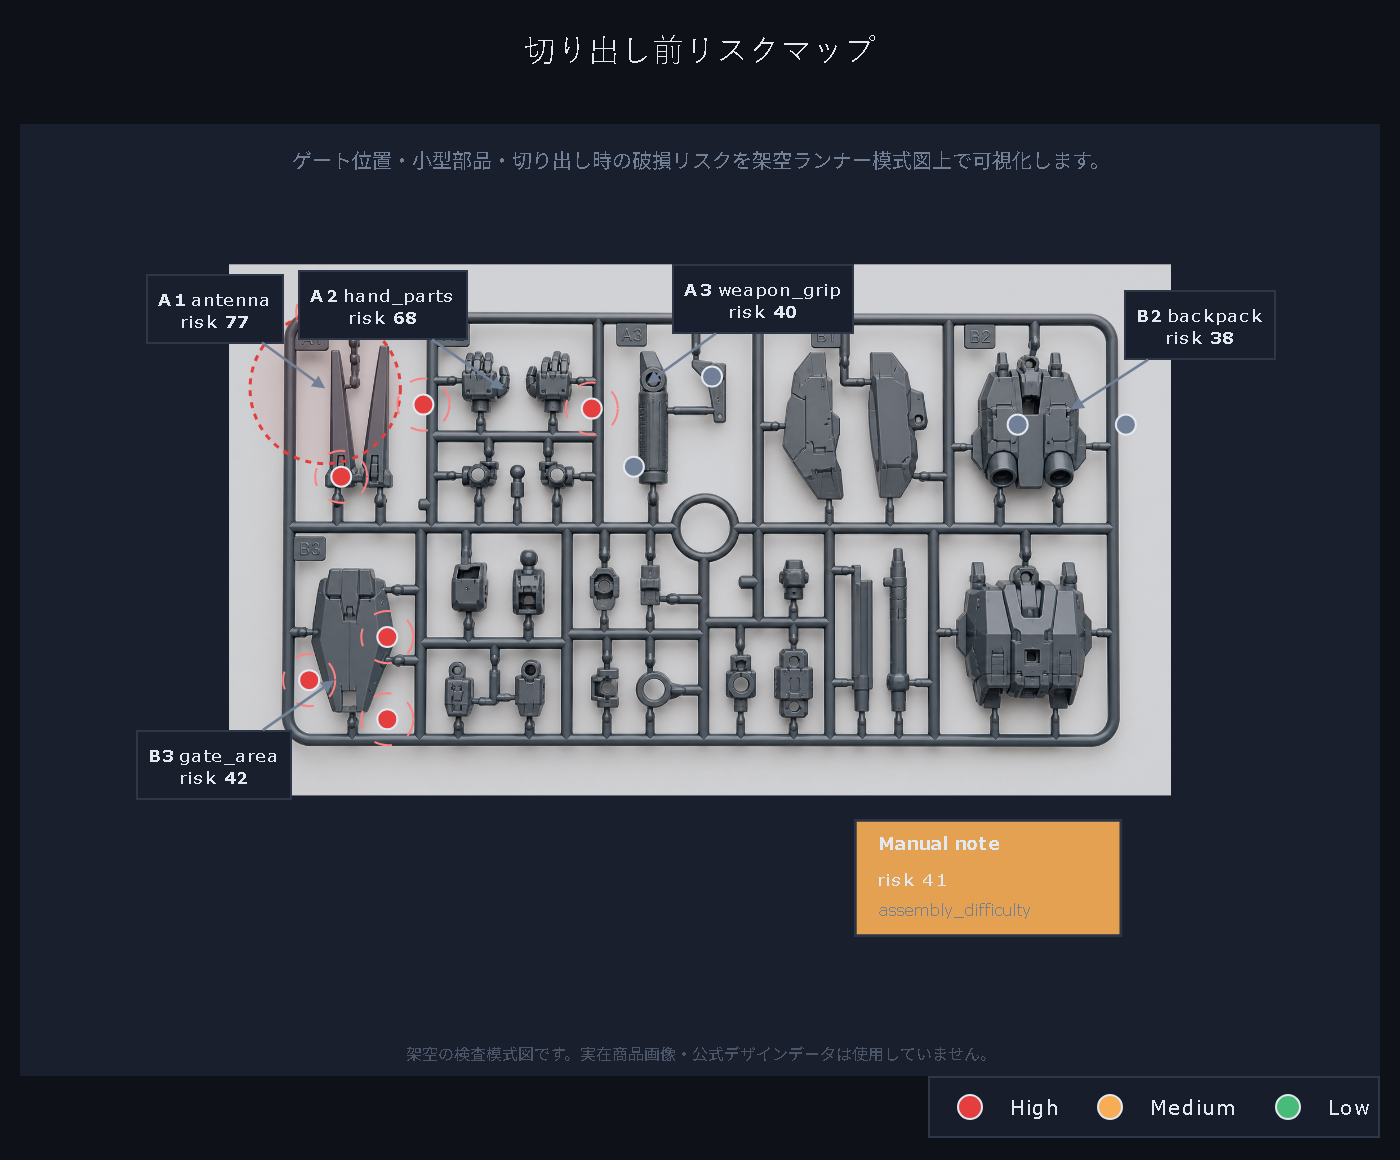
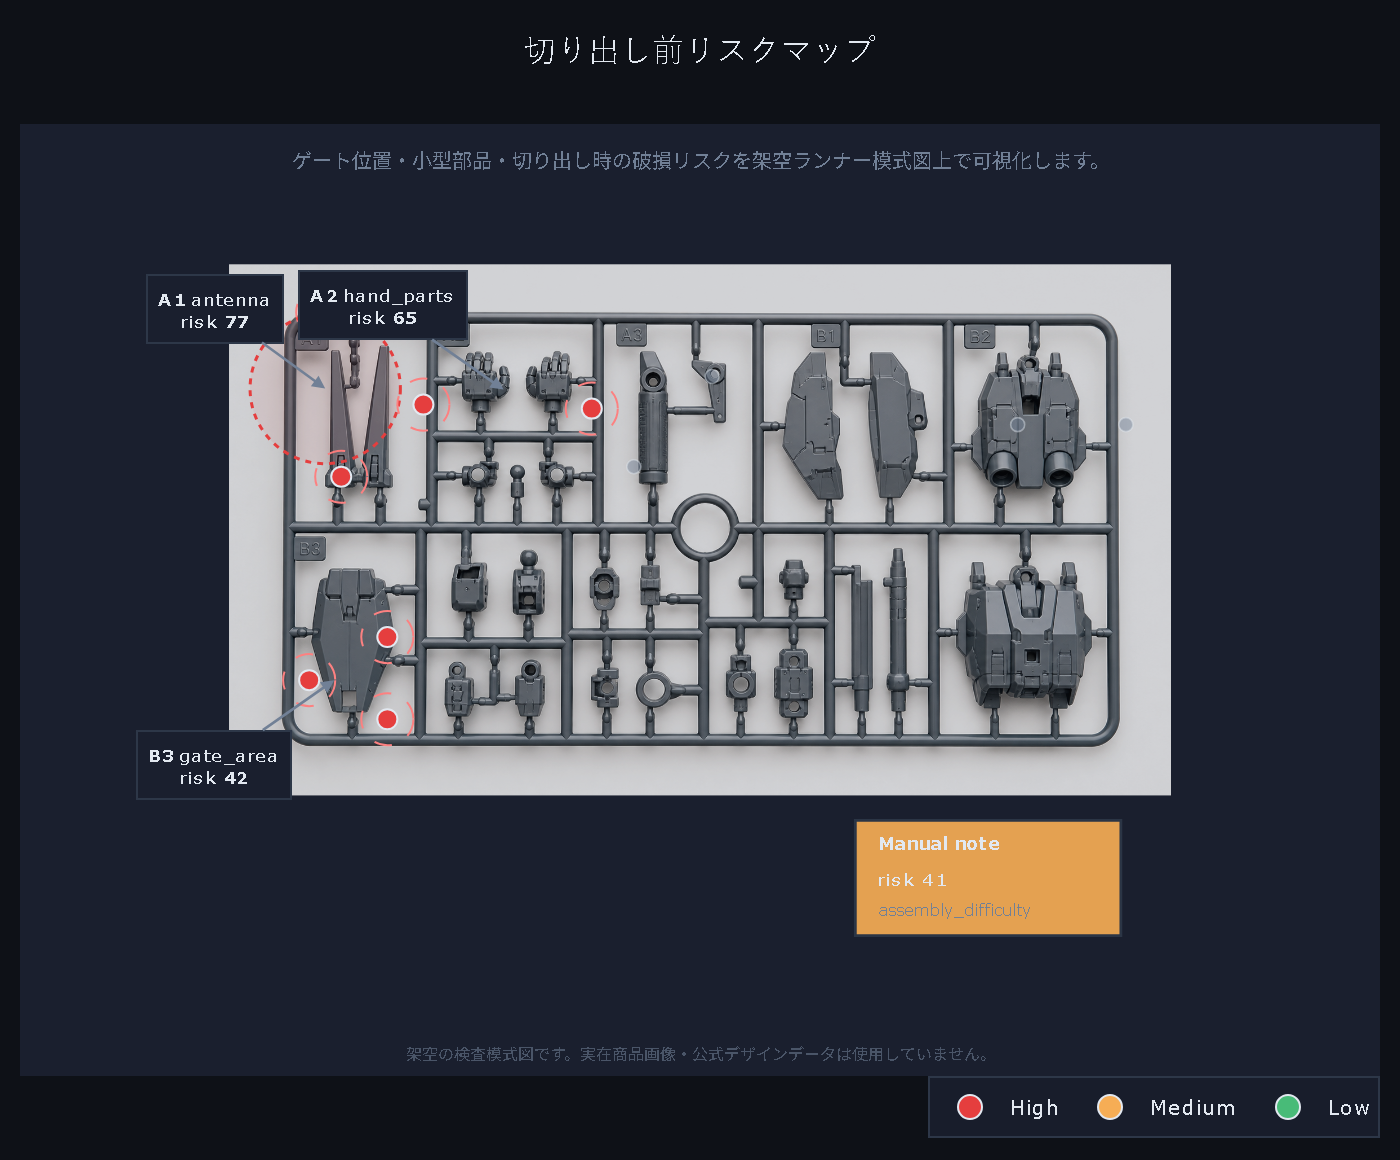
Align risk maps with inspection images

diff --git a/part_visualizer.py b/part_visualizer.py
@@ -111,7 +111,7 @@ RISK_COLORS = {
     "high":   "#E53E3E",
     "medium": "#F6AD55",
     "low":    "#48BB78",
-    "none":   "#4A5568",
+    "none":   "#718096",
 }
 
 _BG      = "#0E1117"
@@ -133,7 +133,7 @@ def plot_runner_inspection_map(
 ) -> go.Figure:
     """Runner sheet inspection map with mecha-style part shapes."""
 
-    summary = _summarize_by_part(records)
+    summary = _summarize_by_part(records, "runner_state")
     fig = go.Figure()
     _apply_base_layout(fig, "切り出し前リスクマップ",
                        "ゲート位置・小型部品・切り出し時の破損リスクを架空ランナー模式図上で可視化します。")
@@ -158,16 +158,18 @@ def plot_runner_inspection_map(
     for part_area, layout in RUNNER_PART_LAYOUT.items():
         info = summary.get(part_area, {})
         risk_score  = info.get("average_risk_score")
+        feedback_count = int(info.get("feedback_count", 0))
         issue_cats  = info.get("issue_categories", [])
         gate_pos    = info.get("gate_position", "hidden")
         is_hl       = highlight_part_area == part_area
+        has_feedback = risk_score is not None
         cx, cy      = _point(layout["center"])
         color       = _risk_color(risk_score)
-        score_text  = f"{risk_score:.0f}" if risk_score is not None else "n/a"
+        score_text  = f"{risk_score:.0f}" if has_feedback else "参考"
 
         if not bg_src:
             _draw_runner_part_shape(fig, part_area, cx, cy, color)
-        _draw_gate_markers(fig, layout["gate_points"], issue_cats, gate_pos)
+        _draw_gate_markers(fig, layout["gate_points"], issue_cats, gate_pos, active=has_feedback or is_hl)
 
         if is_hl:
             fig.add_shape(type="circle",
@@ -187,11 +189,17 @@ def plot_runner_inspection_map(
             marker=dict(size=44, color="rgba(0,0,0,0)", symbol="circle"),
             hovertemplate=(
                 f"<b>{layout['part_no']} {part_area}</b><br>"
-                f"risk: {score_text}<br>gate: {gate_pos}<br>"
+                f"risk: {score_text}<br>feedback: {feedback_count}<br>gate: {gate_pos}<br>"
                 f"categories: {', '.join(issue_cats) or '-'}<extra></extra>"
             ),
             showlegend=False,
         ))
+
+        if not has_feedback and not is_hl:
+            # The background image contains this part, but the current phase has
+            # no feedback for it. Keep it available in hover only so the map
+            # does not pretend to score an unobserved part.
+            continue
 
         # Arrow label
         ann = layout.get("ann", {"ax": 0, "ay": -62})
@@ -222,7 +230,7 @@ def plot_assembled_inspection_map(
 ) -> go.Figure:
     """Post-assembly inspection map with fictional mecha silhouette."""
 
-    summary = _summarize_by_part(records)
+    summary = _summarize_by_part(records, "assembled_state")
     fig = go.Figure()
     _apply_base_layout(fig, "組み立て後リスクマップ",
                        "関節の固さ・保持力不足・ポージング安定性を可視化します。")
@@ -259,11 +267,12 @@ def plot_assembled_inspection_map(
         layout     = ASSEMBLED_PART_LAYOUT[part_area]
         info       = summary.get(part_area, {})
         risk_score = info.get("average_risk_score")
+        feedback_count = int(info.get("feedback_count", 0))
         main_cat   = info.get("main_issue_category", "n/a")
         issue_cats = info.get("issue_categories", [])
         color      = _risk_color(risk_score)
         x, y       = float(layout["x"]), float(layout["y"])
-        shape      = "square" if layout.get("shape") == "rect" else "circle"
+        shape      = "square" if layout.get("shape") in {"rect", "square"} else "circle"
         is_hl      = highlight_part_area == part_area
         score_text = f"{risk_score:.0f}" if risk_score is not None else "n/a"
         msize      = 32 if (risk_score or 0) >= 70 else 24 if (risk_score or 0) >= 40 else 18
@@ -286,6 +295,7 @@ def plot_assembled_inspection_map(
                         line=dict(color="#E2E8F0", width=1.5), symbol=shape),
             hovertemplate=(
                 f"<b>{part_area}</b><br>risk: {score_text}<br>"
+                f"feedback: {feedback_count}<br>"
                 f"main: {main_cat}<br>"
                 f"categories: {', '.join(issue_cats) or '-'}<extra></extra>"
             ),
@@ -477,8 +487,27 @@ def _draw_runner_part_shape(fig: go.Figure, part_area: str,
         p(f"M {cx-0.38} {cy-0.38} L {cx+0.38} {cy-0.38} L {cx+0.38} {cy+0.38} L {cx-0.38} {cy+0.38} Z")
 
 
-def _draw_gate_markers(fig: go.Figure, gate_points: list,
-                       issue_cats: list, gate_pos: str) -> None:
+def _draw_gate_markers(
+    fig: go.Figure,
+    gate_points: list,
+    issue_cats: list,
+    gate_pos: str,
+    *,
+    active: bool = True,
+) -> None:
+    if not active:
+        for gx, gy in gate_points:
+            fig.add_shape(
+                type="circle",
+                x0=gx - 0.07,
+                y0=gy - 0.07,
+                x1=gx + 0.07,
+                y1=gy + 0.07,
+                fillcolor="rgba(113,128,150,0.45)",
+                line=dict(color="rgba(226,232,240,0.45)", width=0.8),
+            )
+        return
+
     risky = bool(set(issue_cats) & {"gate_mark", "breakage_risk", "small_parts"})
     gate_color = "#E53E3E" if (risky or gate_pos in {"front", "tip"}) else "#718096"
     for gx, gy in gate_points:
@@ -658,11 +687,17 @@ def _add_risk_legend(fig: go.Figure) -> None:
 # Data helpers
 # ---------------------------------------------------------------------------
 
-def _summarize_by_part(records: Sequence[Mapping[str, Any]]) -> dict[str, dict[str, Any]]:
+def _summarize_by_part(
+    records: Sequence[Mapping[str, Any]],
+    inspection_phase: str | None = None,
+) -> dict[str, dict[str, Any]]:
     scores     : dict[str, list[int]]       = defaultdict(list)
     categories : dict[str, Counter[str]]    = defaultdict(Counter)
     gates      : dict[str, Counter[str]]    = defaultdict(Counter)
     for record in records:
+        record_phase = record.get("inspection_phase")
+        if inspection_phase and record_phase and str(record_phase) != inspection_phase:
+            continue
         pa = str(record.get("part_area", "unknown"))
         scores[pa].append(int(record.get("risk_score", 0)))
         categories[pa].update(_as_list(record.get("issue_categories", [])))
@@ -674,6 +709,7 @@ def _summarize_by_part(records: Sequence[Mapping[str, Any]]) -> dict[str, dict[s
         main_gate  = gates[pa].most_common(1)
         summary[pa] = {
             "average_risk_score":   sum(sc) / len(sc),
+            "feedback_count":       len(sc),
             "main_issue_category":  main_issue[0][0] if main_issue else "n/a",
             "issue_categories":     list(categories[pa].keys()),
             "gate_position":        main_gate[0][0]  if main_gate  else "hidden",

diff --git a/image_based_analyzer.py b/image_based_analyzer.py
@@ -105,15 +105,16 @@ def build_image_based_findings(
     for part_area, cue in cue_map.items():
         item = summary.get(part_area, {})
         risk_score = int(round(float(item.get("average_risk_score", 0))))
+        feedback_count = int(item.get("feedback_count", 0))
         findings.append(
             {
                 "inspection_phase": inspection_phase,
                 "part_area": part_area,
                 "visual_target": cue["visual_target"],
                 "risk_score": risk_score,
-                "risk_level": _risk_level(risk_score),
+                "risk_level": _risk_level(risk_score, feedback_count),
                 "main_issue_category": item.get("main_issue_category", "n/a"),
-                "feedback_count": item.get("feedback_count", 0),
+                "feedback_count": feedback_count,
                 "visual_cue": cue["visual_cue"],
                 "image_based_interpretation": cue["risk_interpretation"],
                 "recommended_action": cue["recommended_action"],
@@ -234,6 +235,8 @@ def _summarize_records(records: Sequence[Mapping[str, Any]], inspection_phase: s
 def _summary_text(item: Mapping[str, Any] | None) -> str:
     if not item:
         return "該当なし"
+    if int(item.get("feedback_count", 0)) == 0:
+        return "該当フィードバックなし"
     return f"{item['part_area']} / risk {item['risk_score']} / {item['main_issue_category']}"
 
 
@@ -247,7 +250,9 @@ def _markdown_table(rows: Sequence[Mapping[str, Any]], columns: Sequence[str]) -
     return "\n".join([header, separator, *body])
 
 
-def _risk_level(risk_score: int) -> str:
+def _risk_level(risk_score: int, feedback_count: int = 1) -> str:
+    if feedback_count <= 0:
+        return "No feedback"
     if risk_score >= 70:
         return "High"
     if risk_score >= 40:
